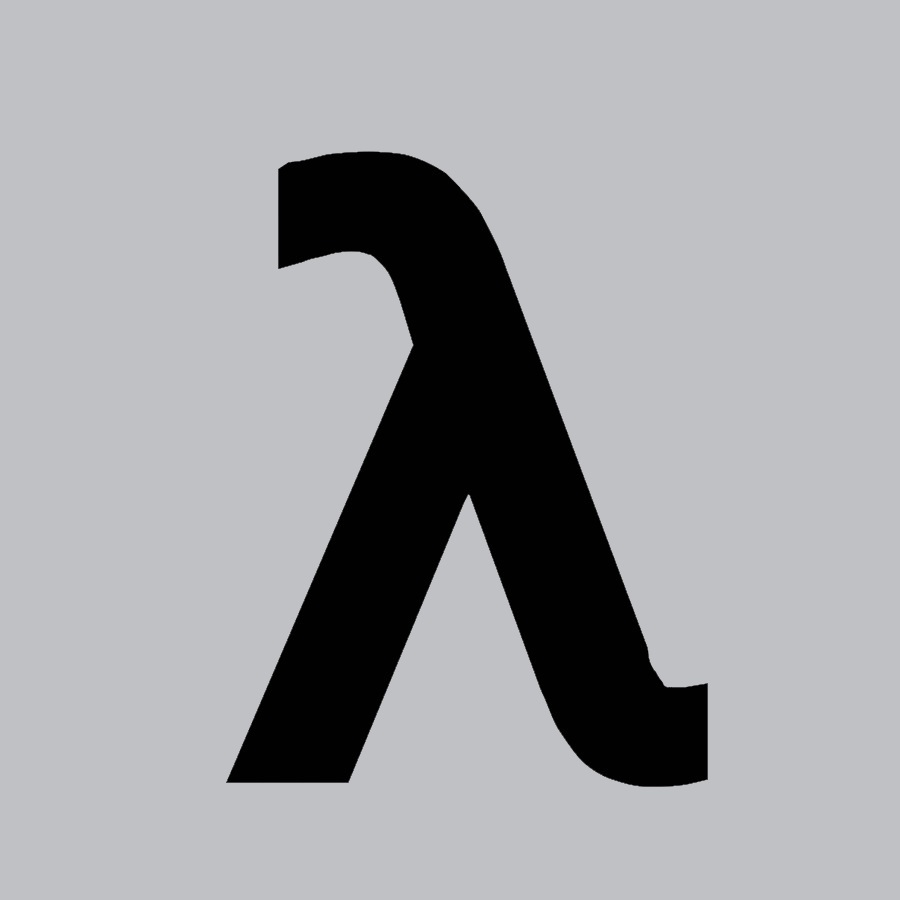
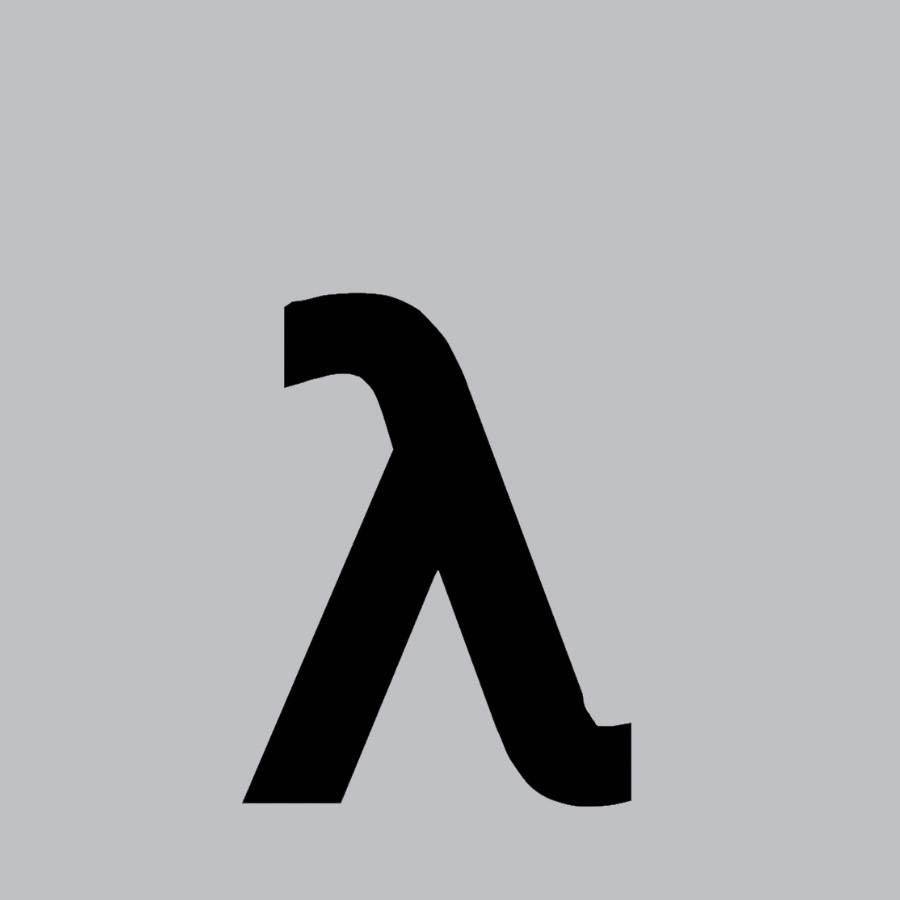
changed order of projects from most recent to oldest, eddited lambda, made smalle

Changed region(s): [[0.2489, 0.1556, 0.8089, 0.9022]]

diff --git a/index.html b/index.html
@@ -86,52 +86,34 @@
                         </div>
                     </div>
                 </div>
-                <div class="row">
-                     <a href="extirswipe.html"><div class="col-sm-4">
-                        <div class="porduct-box">
-                            <img class="img-responsive" src="assets/images/extirswipe.jpg" alt="product">
-                            <h3 class="product-title">Extirswipe</h3>
-                        </div>
-                    </div></a>
-                     <a href="bug.html"><div class="col-sm-4">
-                        <div class="porduct-box">
-                            <img class="img-responsive" src="assets/images/bug.jpg" alt="product">
-                            <h3 class="product-title">B.U.G.</h3>
-                        </div>
-                    </div></a>
-                     <a href="sas.html"><div class="col-sm-4">
-                        <div class="porduct-box">
-                            <img class="img-responsive" src="assets/images/seatastudent.jpg" alt="product">
-                            <h3 class="product-title">Seat a Student</h3>
-                        </div>
-                    </div></a>
-                </div>
 
-                <div class="row">
-                    <a href="musicusb.html"><div class="col-sm-4">
+				<div class="row">
+                     
+					<a href="research.html"><div class="col-sm-4">
                         <div class="porduct-box">
-                            <img class="img-responsive" src="assets/images/musicUSB.jpg" alt="product">
-                            <h3 class="product-title">Music USB</h3>
+                            <img class="img-responsive" src="assets/images/lambda.jpg" alt="product">
+                            <h3 class="product-title">Research and Industry</h3>
                         </div>
                     </div></a>
-                     <a href="eqbb.html"><div class="col-sm-4">
+                     <a href="happy-shrug.html"><div class="col-sm-4">
                         <div class="porduct-box">
-                            <img class="img-responsive" src="assets/images/EQBB.jpg" alt="product">
-                            <h3 class="product-title">EQ Boom Box</h3>
+                            <img class="img-responsive" src="assets/images/shrug.jpg" alt="product">
+                            <h3 class="product-title">Happy Shrug Robot</h3>
                         </div>
                     </div></a>
-                     <a href="compcomp.html"><div class="col-sm-4">
+					<a href="legendary-spoon.html"><div class="col-sm-4">
                         <div class="porduct-box">
-                            <img class="img-responsive" src="assets/images/tspcomptheory.jpg" alt="product">
-                            <h3 class="product-title">Computational Complexity Theory in a Nutshell</h3>
+                            <img class="img-responsive" src="assets/images/spoon.jpg" alt="product">
+                            <h3 class="product-title">The Legendary Spoon</h3>
                         </div>
                     </div></a>
-                </div>
-                <div class="row">
-                     <a href="roach.html"><div class="col-sm-4">
+					
+				</div>
+				<div class="row">
+                     <a href="business-card.html"><div class="col-sm-4">
                         <div class="porduct-box">
-                            <img class="img-responsive" src="assets/images/roach.png" alt="product">
-                            <h3 class="product-title">R.O.A.C.H.</h3>
+                            <img class="img-responsive" src="assets/images/business-card.jpg" alt="product">
+                            <h3 class="product-title">PCB Business Card</h3>
                         </div>
                     </div></a>
                      <a href="alice.html"><div class="col-sm-4">
@@ -140,33 +122,56 @@
                             <h3 class="product-title">Alice</h3>
                         </div>
                     </div></a>
-					<a href="business-card.html"><div class="col-sm-4">
+					<a href="roach.html"><div class="col-sm-4">
                         <div class="porduct-box">
-                            <img class="img-responsive" src="assets/images/business-card.jpg" alt="product">
-                            <h3 class="product-title">PCB Business Card</h3>
+                            <img class="img-responsive" src="assets/images/roach.png" alt="product">
+                            <h3 class="product-title">R.O.A.C.H.</h3>
                         </div>
                     </div></a>
+					
 				</div>
 				<div class="row">
-                     <a href="legendary-spoon.html"><div class="col-sm-4">
+					<a href="eqbb.html"><div class="col-sm-4">
                         <div class="porduct-box">
-                            <img class="img-responsive" src="assets/images/spoon.jpg" alt="product">
-                            <h3 class="product-title">The Legendary Spoon</h3>
+                            <img class="img-responsive" src="assets/images/EQBB.jpg" alt="product">
+                            <h3 class="product-title">EQ Boom Box</h3>
                         </div>
                     </div></a>
-                     <a href="shrug.html"><div class="col-sm-4">
+					<a href="compcomp.html"><div class="col-sm-4">
                         <div class="porduct-box">
-                            <img class="img-responsive" src="assets/images/shrug.jpg" alt="product">
-                            <h3 class="product-title">Happy Shrug Robot</h3>
+                            <img class="img-responsive" src="assets/images/tspcomptheory.jpg" alt="product">
+                            <h3 class="product-title">Computational Complexity Theory in a Nutshell</h3>
                         </div>
                     </div></a>
-					<a href="research.html"><div class="col-sm-4">
+					<a href="musicusb.html"><div class="col-sm-4">
                         <div class="porduct-box">
-                            <img class="img-responsive" src="assets/images/lambda.jpg" alt="product">
-                            <h3 class="product-title">Research and Industry</h3>
+                            <img class="img-responsive" src="assets/images/musicUSB.jpg" alt="product">
+                            <h3 class="product-title">Music USB</h3>
                         </div>
                     </div></a>
-				</div>
+                     
+                </div>
+				<div class="row">
+                     <a href="sas.html"><div class="col-sm-4">
+                        <div class="porduct-box">
+                            <img class="img-responsive" src="assets/images/seatastudent.jpg" alt="product">
+                            <h3 class="product-title">Seat a Student</h3>
+                        </div>
+                    </div></a>
+                     <a href="bug.html"><div class="col-sm-4">
+                        <div class="porduct-box">
+                            <img class="img-responsive" src="assets/images/bug.jpg" alt="product">
+                            <h3 class="product-title">B.U.G.</h3>
+                        </div>
+                    </div></a>
+					<a href="extirswipe.html"><div class="col-sm-4">
+                        <div class="porduct-box">
+                            <img class="img-responsive" src="assets/images/extirswipe.jpg" alt="product">
+                            <h3 class="product-title">Extirswipe</h3>
+                        </div>
+                    </div></a>
+                     
+                </div>
         </section>
     <!-- Footer -->
         <section id="footer-widget" class="footer-widget">
